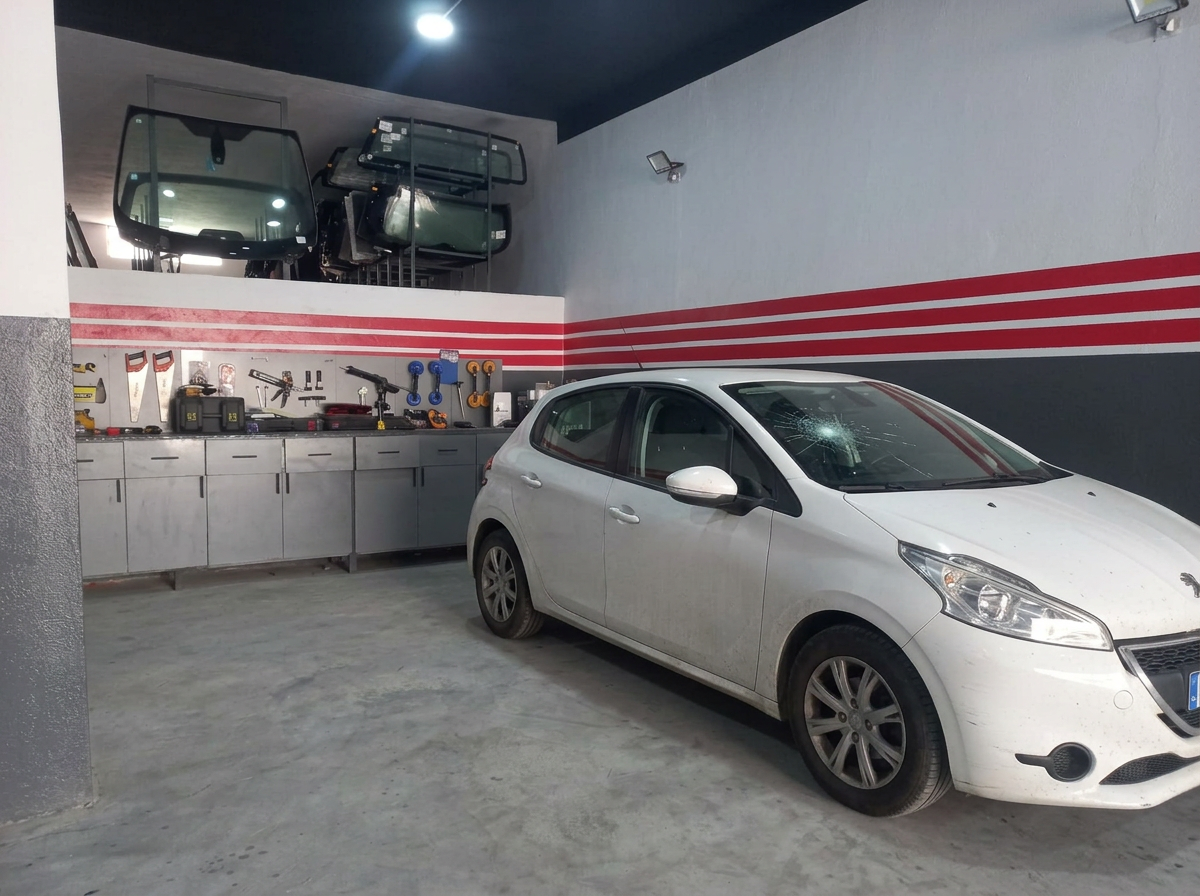
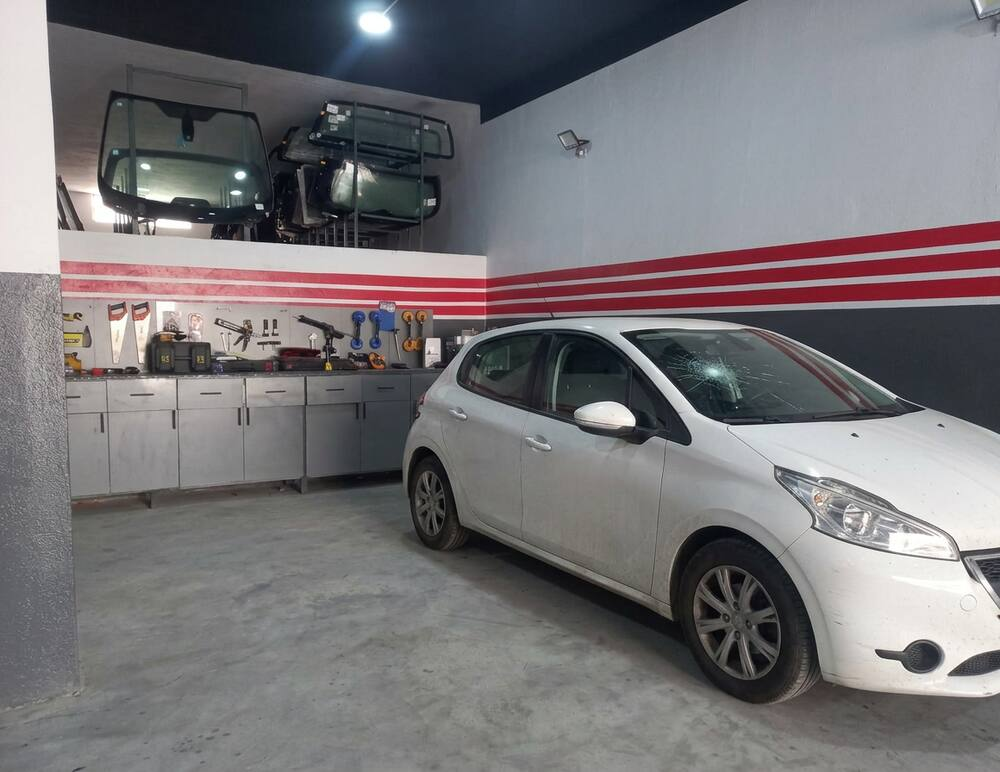
Changes

diff --git a/src/components/site/Sections.tsx b/src/components/site/Sections.tsx
@@ -290,7 +290,7 @@ function BeforeAfter() {
   const { t } = useLang();
   const [pos, setPos] = useState(50);
   return (
-    <div className="relative aspect-[16/10] w-full overflow-hidden rounded-3xl border border-border" dir="ltr">
+    <div className="relative aspect-[1000/772] w-full overflow-hidden rounded-3xl border border-border" dir="ltr">
       <img src={images.after} alt={t(c.work.afterAlt)} loading="lazy" className="absolute inset-0 h-full w-full object-cover" />
       <div className="absolute inset-0 overflow-hidden" style={{ clipPath: `inset(0 ${100 - pos}% 0 0)` }}>
         <img src={images.before} alt={t(c.work.beforeAlt)} loading="lazy" className="h-full w-full object-cover" />
